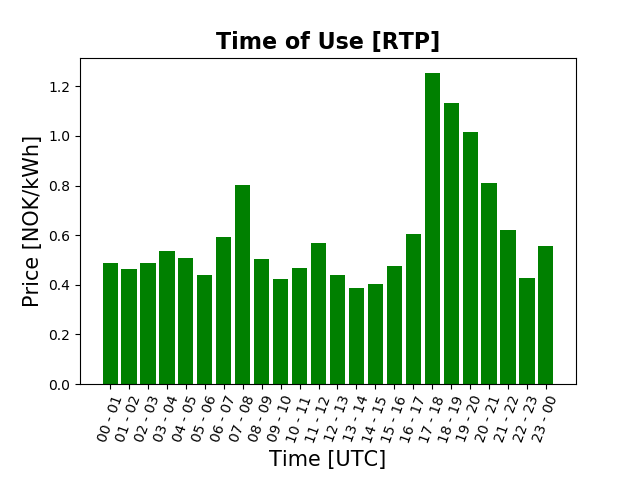
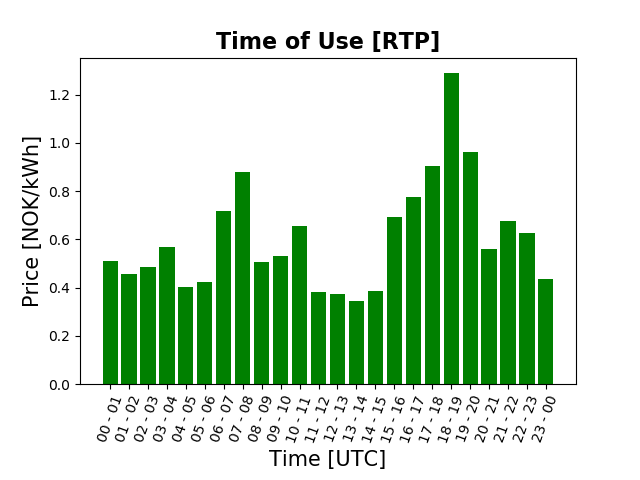
Updates in functions.py

diff --git a/Assignment_1/functions.py b/Assignment_1/functions.py
@@ -10,7 +10,7 @@ from numpy.random           import RandomState
 # -----------------------------------------------------------------------------
 
 seed = 100
-seed = 3210
+#seed = 3210
 rs   = RandomState(seed)
 
 def Get_df(file_name='/energy_use.xlsx'):
@@ -40,10 +40,85 @@ def applications(df):
 
     alpha         = df['Alpha'].values          # Lower bounce. Set-up time
     beta          = df['Beta'].values           # Upper bounce. Deadline
-    length        = df['Length'].values
+    length        = df['Length [h]'].values     # Length: Power use per day [h]
 
-    #print(str(app_names))
     return n_app, app_names, shiftable, non_shiftable, alpha, beta, length
+
+
+# OBSOBSOBS !!! Denne er ikke ferdig. Task 3
+def applications_Task3(df, households):
+    """
+    Function that returns appliances data
+
+    Some of the n-households have EVs.
+    The last 6 shiftable appliances are randomly selected for the households
+    At least 4 of these in each household.
+    """
+
+    # Disse stemmer ikke lengre, siden noe fjernes...
+    #n_app         = len(df)                     # Number of appliances
+    #app_names     = df.index.values
+
+    # Get variables from the Excel file
+    non_shiftable = df[df['Shiftable'] == 0]    # Non-shiftable appliances
+    shiftable_set = df[df['Shiftable'] == 1]    # Shiftable appliances
+    shiftable_ran = df[df['Shiftable'] == 2]    # Shiftable appliances - random
+
+    non_shiftable_names = non_shiftable.index.values
+
+    # Make sure only a fraction of the households have an EV
+    #print(shiftable_set[shiftable_set.index == 'EV'])
+
+    EV = random.randint(0, 1)
+    if EV == 0:
+        shiftable_set = shiftable_set[:-1]
+    shiftable_set_names = shiftable_set.index.values
+
+    # Now make a random selection of optional shiftable appliances,
+    # where a household has 2-6 appliances
+    optional = []
+    while len(optional) < 2:
+        random_appliances(shiftable_ran, optional)
+
+    shiftable_ran_ = pd.DataFrame(optional)
+    shiftable_ran_names = shiftable_ran_.index.values
+
+    # Number of appliances
+    n_app    = len(non_shiftable) + len(shiftable_set) + len(shiftable_ran_)
+
+    # Disse stemmer ikke lengre, siden noe fjernes...
+    alpha    = df['Alpha'].values          # Lower bounce. Set-up time
+    print(alpha)
+    beta     = df['Beta'].values           # Upper bounce. Deadline
+    length   = df['Length [h]'].values     # Length: Power use per day [h]
+
+    alpha    = non_shiftable['Alpha'].values   # Lower bounce. Set-up time
+    alpha_s  = shiftable_set['Alpha'].values
+    alpha_r  = shiftable_ran['Alpha'].values
+    print(alpha)
+    print(alpha_s)
+    print(alpha_r)
+
+    """
+    return  n_app, app_names,
+            shiftable_set, shiftable_set_names,
+            shiftable_ran_, shiftable_ran_names,
+            non_shiftable, non_shiftable_names,
+            alpha, beta, length  # Alpha osv maa skaleres naa? pga shiftable_ran_ er forskjellig???
+    """
+    return n_app, shiftable_set, shiftable_ran_, non_shiftable
+
+
+
+def random_appliances(shiftable_ran, optional):
+
+    for i in range(len(shiftable_ran)):
+        # make random numbers
+        n = random.randint(0, 1)
+        # Add random appliances to the household
+        if n == 1:
+            optional.append(shiftable_ran.iloc[i])
+
 
 def Get_price(hours, seed, ToU=False):
     """
@@ -138,12 +213,12 @@ def linprog_input(df, n_app, price, intervals, hours=24):
 
     c = np.array(price*len(df))
 
-    energy_hour = df['Hourly usage [kW]'].values
+    energy_hour = df['Hourly usage [kW]'].values    # Power Use [kW]
     E_tot       = [np.sum(energy_hour)]*hours
 
 
     A_eq = np.zeros((n_app, n_app*hours))
-    b_eq = df['Daily usage [kW]'].values
+    b_eq = df['Daily usage [kWh]'].values
 
     # ????
     for i in range(n_app):

diff --git a/Assignment_1/prosjekt1.py b/Assignment_1/prosjekt1.py
@@ -13,7 +13,6 @@ from random 				import seed
 seed  = 5410
 
 df 	  = func.Get_df(file_name='/energy_use.xlsx')	# Get data for appliances
-
 hours = 24
 
 
@@ -44,8 +43,9 @@ if __name__ == '__main__':
 		print("--"*40); print("Task 1"); print("--"*40)
 		# ---------------------------------------------------------------------
 
-		# Only look at the 3 last appliances
-		df = df[-3:]
+		# Only look at appliances: Dishwasher, LM and EV
+		#df = df[-3:]
+		df = df[7:10]
 
 		n_app, app_names, shiftable, non_shiftable, alpha, beta, length = func.applications(df)
 
@@ -111,3 +111,40 @@ if __name__ == '__main__':
 
 		print("--"*40); print("Task 3"); print("--"*40)
 		# ---------------------------------------------------------------------
+		households = 1
+
+		# Get pricing scheme. ToU (Time-of-Use) or RTP (Real-Time-Pricing)
+		price = func.Get_price(hours, seed=seed, ToU=False)
+
+		for i in range(households):
+		#n_app, app_names, shiftable, non_shiftable, alpha, beta, length = func.applications_NEW_30(df, households)
+			n_app, shiftable_set, shiftable_ran, non_shiftable = func.applications_Task3(df, households)
+			print(n_app, len(non_shiftable), len(shiftable_set), len(shiftable_ran))
+
+			"""
+			# Creating intervals
+			intervals = func.interval_severeal_app(n_app, length, alpha, beta, shuffle=False)
+
+			# Make vriables for linprog. c, A_eq, b_eq, A_ub, b_ub
+			c, A_eq, b_eq, A_ub, b_ub = func.linprog_input(df, n_app, price, intervals, hours)
+
+			# Make linprog calculations
+			res 		= linprog(c, A_ub=A_ub, b_ub=b_ub, A_eq=A_eq, b_eq=b_eq, bounds=(0,None))
+			consumption = res.x.reshape(n_app,hours)
+			"""
+		"""
+		if Plot == True:
+
+			# Only need to plot combined shiftable and non-shiftable?
+
+			P.Make_p_hist(df, price)
+			P.consumption_plot(price=price, app=consumption, app_names=app_names)
+			#P.consumption_plot(shift=consumption, price=price, nonshift=0, shiftnames=app_names)
+			plt.show()
+
+		else:
+			#print(res)
+			print(res.message)
+			print("Status: ", res.status)
+			print("Minimized cost: %.3f" % res.fun)
+		"""

diff --git a/Assignment_1/plotting.py b/Assignment_1/plotting.py
@@ -6,12 +6,7 @@ import matplotlib.pyplot    as plt
 import numpy                as np
 
 from datetime               import time
-#from random                 import seed
 # -----------------------------------------------------------------------------
-
-#seed = 5410
-# Funker ikke som det skal med random.uniform() !!!
-
 
 def Make_p_hist(df, price):
     """
